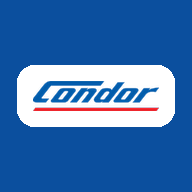
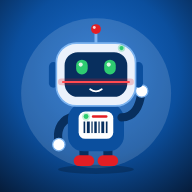
Ícone e nome Bipi, spinner ao puxar, remove gesto de borda duplicado
Claude-Session: https://claude.ai/code/session_015S8rswGn2in49cohsxgAfz

diff --git a/src/componentes/Gestos.jsx b/src/componentes/Gestos.jsx
@@ -1,11 +1,12 @@
 // Lei de Jakob: gestos que a pessoa já conhece de outros apps. Só celular/tablet (toque).
 //  - puxar a tela para baixo no topo = atualizar os dados
-//  - deslizar da borda esquerda para a direita = voltar (como no iPhone)
-// A lógica de decisão está em lib/gestos.js (testada). Os indicadores são atualizados direto no DOM (sem re-render a cada pixel).
+// O "voltar" por gesto de borda é do próprio sistema (iPhone/Android) e cai no popstate tratado no AppInner:
+// um gesto próprio aqui fechava duas telas (o nosso e o do sistema) e podia recarregar a página.
+// A lógica de decisão está em lib/gestos.js (testada). O indicador é atualizado direto no DOM (sem re-render a cada pixel).
 import { useEffect, useRef } from "react";
 import { createPortal } from "react-dom";
-import { BLUE, RED_DARK } from "../lib/constantes";
-import { LIMITE_PUXAR, puxada, passouDoLimite, gestoDeVoltar, BORDA_PX } from "../lib/gestos";
+import { BLUE } from "../lib/constantes";
+import { LIMITE_PUXAR, puxada, passouDoLimite } from "../lib/gestos";
 
 // Fora do toque: campos de texto, vídeo/câmera, qualquer coisa marcada com data-sem-gesto, e tudo que está em camada fixa (folhas, modais, barra de baixo)
 function bloqueado(alvo, raiz) {
@@ -24,10 +25,10 @@ function bloqueado(alvo, raiz) {
   return false;
 }
 
-export function Gestos({ T, ligado, podeVoltar, onVoltar, onAtualizar }) {
+export function Gestos({ T, ligado, onAtualizar }) {
   const refs = useRef({});
-  refs.current = { ligado, podeVoltar, onVoltar, onAtualizar };
-  const puxarEl = useRef(null), voltarEl = useRef(null);
+  refs.current = { ligado, onAtualizar };
+  const puxarEl = useRef(null);
 
   useEffect(() => {
     const raiz = document.getElementById("root");
@@ -39,29 +40,21 @@ export function Gestos({ T, ligado, podeVoltar, onVoltar, onAtualizar }) {
       e.style.opacity = px > 4 || girando ? "1" : "0";
       e.style.transform = `translate(-50%, ${px - 44}px)`;
       e.style.transition = g ? "none" : (reduzir ? "none" : "transform .22s ease, opacity .2s ease");
-      const seta = e.firstElementChild;
-      if (seta) { seta.style.transform = `rotate(${pronto ? 180 : Math.min(180, (px / LIMITE_PUXAR) * 180)}deg)`; seta.style.animation = girando && !reduzir ? "gestoGira .8s linear infinite" : "none"; }
-    };
-    const pintaVoltar = (px) => {
-      const e = voltarEl.current; if (!e) return;
-      e.style.opacity = px > 6 ? "1" : "0";
-      e.style.transform = `translate(${Math.min(px, 90) - 40}px, -50%)`;
-      e.style.transition = g ? "none" : (reduzir ? "none" : "transform .2s ease, opacity .2s ease");
+      const seta = e.children[0], giro = e.children[1];
+      if (seta) { seta.style.display = girando ? "none" : "block"; seta.style.transform = `rotate(${pronto ? 180 : Math.min(180, (px / LIMITE_PUXAR) * 180)}deg)`; }
+      if (giro) { giro.style.display = girando ? "block" : "none"; giro.style.animation = girando && !reduzir ? "gestoGira .75s linear infinite" : "none"; }
     };
     const inicio = (ev) => {
       const r = refs.current;
       if (!r.ligado || atualizando || ev.touches.length !== 1) { g = null; return; }
       const t = ev.touches[0];
-      const borda = r.podeVoltar && t.clientX <= BORDA_PX;
-      const alvoEl = ev.target && ev.target.closest ? ev.target.closest("input,textarea,select,video,canvas,[data-sem-gesto]") : null;
       const topo = raiz.scrollTop <= 0 && !bloqueado(ev.target, raiz);
-      g = ((borda && !alvoEl) || topo) ? { x0: t.clientX, y0: t.clientY, dx: 0, dy: 0, modo: borda ? "voltar" : "puxar", travado: false, pronto: false } : null;
+      g = topo ? { x0: t.clientX, y0: t.clientY, dx: 0, dy: 0, travado: false, pronto: false } : null;
     };
     const mover = (ev) => {
       if (!g || ev.touches.length !== 1) return;
       const t = ev.touches[0];
       g.dx = t.clientX - g.x0; g.dy = t.clientY - g.y0;
-      if (g.modo === "voltar") { if (g.dx > 0 && Math.abs(g.dy) < g.dx * 0.8) pintaVoltar(g.dx * 0.8); else pintaVoltar(0); return; }
       // puxar: só vale se o movimento for para baixo e mais vertical que horizontal; rolou para cima = desiste
       if (!g.travado) {
         if (Math.abs(g.dx) > 12 && Math.abs(g.dx) > Math.abs(g.dy)) { g = null; return; }
@@ -78,7 +71,6 @@ export function Gestos({ T, ligado, podeVoltar, onVoltar, onAtualizar }) {
     const fim = async () => {
       const x = g; g = null;
       if (!x) return;
-      if (x.modo === "voltar") { pintaVoltar(0); if (gestoDeVoltar(x)) refs.current.onVoltar && refs.current.onVoltar(); return; }
       if (!x.travado) return;
       if (passouDoLimite(x.dy) && refs.current.onAtualizar) {
         atualizando = true; pintaPuxar(LIMITE_PUXAR * 0.8, true, false);
@@ -87,7 +79,7 @@ export function Gestos({ T, ligado, podeVoltar, onVoltar, onAtualizar }) {
       }
       pintaPuxar(0, false, false);
     };
-    const cancela = () => { if (g) { g = null; pintaPuxar(0, false, false); pintaVoltar(0); } };
+    const cancela = () => { if (g) { g = null; pintaPuxar(0, false, false); } };
     raiz.addEventListener("touchstart", inicio, { passive: true });
     raiz.addEventListener("touchmove", mover, { passive: true });
     raiz.addEventListener("touchend", fim, { passive: true });
@@ -105,9 +97,7 @@ export function Gestos({ T, ligado, podeVoltar, onVoltar, onAtualizar }) {
       <style>{"@keyframes gestoGira{to{transform:rotate(360deg)}}"}</style>
       <div ref={puxarEl} aria-hidden="true" data-sem-gesto style={{ ...bola, position: "fixed", left: "50%", top: "calc(env(safe-area-inset-top) + 8px)", width: 38, height: 38, borderRadius: 19, zIndex: 90, opacity: 0, pointerEvents: "none", display: "flex", alignItems: "center", justifyContent: "center", transform: "translate(-50%, -44px)" }}>
         <svg width="20" height="20" viewBox="0 0 24 24" fill="none" stroke="currentColor" strokeWidth="2.6" strokeLinecap="round" strokeLinejoin="round" style={{ transformOrigin: "50% 50%" }}><path d="M12 5v13M6 13l6 6 6-6" /></svg>
-      </div>
-      <div ref={voltarEl} aria-hidden="true" data-sem-gesto style={{ ...bola, color: RED_DARK, position: "fixed", left: 0, top: "50%", width: 38, height: 38, borderRadius: 19, zIndex: 90, opacity: 0, pointerEvents: "none", display: "flex", alignItems: "center", justifyContent: "center", transform: "translate(-40px, -50%)" }}>
-        <svg width="20" height="20" viewBox="0 0 24 24" fill="none" stroke="currentColor" strokeWidth="2.6" strokeLinecap="round" strokeLinejoin="round"><path d="M15 5l-7 7 7 7" /></svg>
+        <svg width="22" height="22" viewBox="0 0 24 24" fill="none" strokeWidth="3" strokeLinecap="round" style={{ display: "none", transformOrigin: "50% 50%" }}><circle cx="12" cy="12" r="9" stroke="currentColor" opacity=".18" /><path d="M12 3a9 9 0 0 1 9 9" stroke="currentColor" /></svg>
       </div>
     </>,
     document.body

diff --git a/index.html b/index.html
@@ -3,7 +3,7 @@
   <head>
     <meta charset="UTF-8" />
     <meta name="viewport" content="width=device-width, initial-scale=1.0, viewport-fit=cover, user-scalable=no" />
-    <title>Condor · Alerta de Validade</title>
+    <title>Bipi · Alerta de Validade</title>
     <meta name="description" content="Controle de validade, alertas e baixas de produtos da Condor Supermercados." />
 
     <!-- PWA / instalação como app -->
@@ -14,7 +14,7 @@
     <link rel="apple-touch-icon" href="/apple-touch-icon.png" />
     <meta name="apple-mobile-web-app-capable" content="yes" />
     <meta name="apple-mobile-web-app-status-bar-style" content="black-translucent" />
-    <meta name="apple-mobile-web-app-title" content="Alerta Validade" />
+    <meta name="apple-mobile-web-app-title" content="Bipi" />
     <meta name="mobile-web-app-capable" content="yes" />
   </head>
   <body>
@@ -29,7 +29,7 @@
         @keyframes ab-onda{from{transform:scale(.8);opacity:.6}to{transform:scale(2.4);opacity:0}}
         @media (prefers-reduced-motion:reduce){#abertura *{animation:none!important}}
       </style>
-      <div id="abertura" role="status" aria-label="Carregando"><span class="anel"></span><span class="anel"></span><div class="caixa"><img src="/icon-192.png" alt="Condor" /></div></div>
+      <div id="abertura" role="status" aria-label="Carregando"><span class="anel"></span><span class="anel"></span><div class="caixa"><img src="/icon-192.png" alt="Bipi" /></div></div>
     </div>
     <script type="module" src="/src/main.jsx"></script>
   </body>

diff --git a/src/componentes/Novidades.jsx b/src/componentes/Novidades.jsx
@@ -12,7 +12,9 @@ import { BLUE, BLUE_DARK, BLUE_SOFT, RED_DARK, RED_SOFT } from "../lib/constante
 const NOVIDADES = [
   { id: "2026-11-14-gestos", data: "14/11/2026", itens: [
     { tipo: "adicionado", ate: 7, texto: "Puxe a tela para baixo, no topo, para atualizar os dados na hora (celular e tablet)." },
-    { tipo: "adicionado", ate: 7, texto: "Botão voltar do celular e gesto de deslizar da borda esquerda agora voltam uma tela dentro do app, em vez de fechá-lo." },
+    { tipo: "adicionado", ate: 7, texto: "Botão voltar do celular e o gesto de voltar do sistema (deslizar da borda) agora voltam uma tela dentro do app, em vez de fechá-lo." },
+    { tipo: "melhorado", ate: 7, texto: "Novo ícone do app com o Bipi e o nome \"Bipi\" na tela de início (para ver, reinstale o app na tela de início)." },
+    { tipo: "corrigido", ate: 7, texto: "Ao puxar a tela para atualizar, o indicador agora é um spinner girando." },
     { tipo: "melhorado", ate: 7, texto: "Tocar de novo na aba em que você já está leva a tela de volta ao topo." },
   ] },
   { id: "2026-11-14-compartilhar-bipar", data: "14/11/2026", itens: [

diff --git a/src/App.jsx b/src/App.jsx
@@ -1671,7 +1671,7 @@ function AppInner() {
       {vozAberta && <VozSheet T={T} accent={RED} accentDark={RED_DARK} catalog={catalog} onCancel={() => setVozAberta(false)} onConfirmar={aplicarVoz} />}
 
       {!ehDesktop && perfil && dadosProntos && !recuperandoSenha && aceiteOk !== false && (
-        <Gestos T={T} ligado={flow !== "scan" && !vozAberta} podeVoltar={nCamadas > 0 && flow !== "scan"} onVoltar={() => voltarRef.current && voltarRef.current()} onAtualizar={atualizarDadosAgora} />
+        <Gestos T={T} ligado={flow !== "scan" && !vozAberta} onAtualizar={atualizarDadosAgora} />
       )}
 
       {showBottomNav && <BottomNav T={T} tab={tab} setTab={(t) => { setSetorAtivo(null); setTab(t); }} alertCount={alertCount} onScan={() => setFlow("scan")} />}

diff --git a/CLAUDE.md b/CLAUDE.md
@@ -467,3 +467,5 @@ Retrato do banco no dia: 2 lojas, 5 usuários (3 ativos), 45 lotes, 169 produtos
 - Botão voltar do sistema (Android/Safari): AppInner mantém UMA entrada de histórico por camada aberta (detalhe do produto, fluxo, setor, subcategoria, aba, página de Mais) e `voltarRef` fecha a de cima (igual ao botão voltar do cabeçalho, inclusive expiry→confirm). Sem nada aberto o sistema sai do app como sempre.
 - Tocar na aba ativa da BottomNav também rola `#root` ao topo (o `setTab` de antes continua).
 - Pendências aceitas: folhas internas das telas (sheets) não contam como camada: o voltar fecha a tela inteira; Esc no PC não fecha modal; não testado em iPhone real (gesto de borda do Safari pode competir com o do sistema).
+- AJUSTE 2026-11-14 (20h50): o gesto de borda PRÓPRIO foi REMOVIDO (no iPhone o sistema também voltava: duas voltas = fechava a tela e saía/recarregava a página). O voltar por gesto é o do sistema, tratado no popstate. `Gestos.jsx` só faz puxar-para-atualizar, com spinner (arco girando) enquanto carrega. `gestoDeVoltar`/`BORDA_PX` em lib/gestos.js ficaram sem uso (só no teste).
+- ÍCONE E NOME DO APP (pedido do dono): `public/icon-192/512/512-maskable.png`, `apple-touch-icon.png`, `favicon.ico` agora são o Bipi (fundo da marca; gerados por `scratchpad/icones.py` a partir de `public/bipi-acenando.svg`); `manifest.json` name "Bipi · Alerta de Validade", short_name "Bipi"; `apple-mobile-web-app-title` "Bipi"; `<title>` "Bipi · Alerta de Validade". Quem já instalou continua com o ícone/nome antigo até reinstalar (iPhone) ou o Chrome atualizar o manifesto (Android). Dentro das telas o app segue "Condor".
